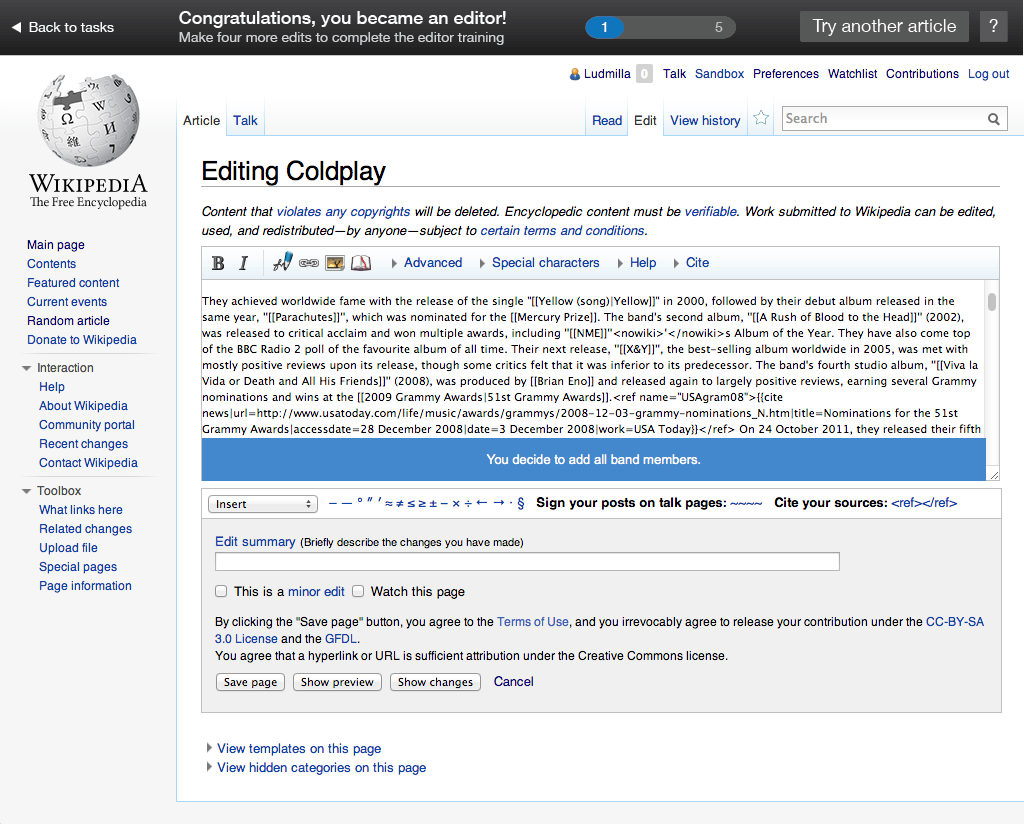
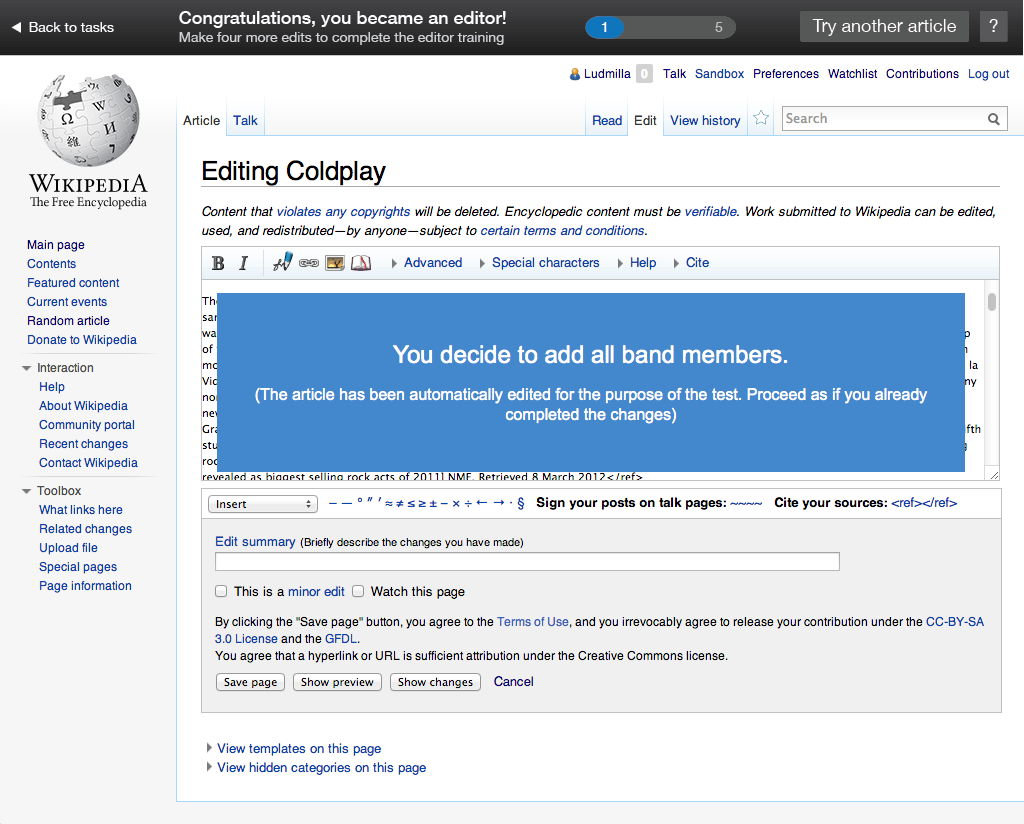
Clarifications added for blue version after pilot test.

Changed region(s): [[0.1875, 0.3337, 0.9688, 0.6068]]

diff --git a/getting-started/blue-bar/index.html b/getting-started/blue-bar/index.html
@@ -1,3 +1,3 @@
 <html xmlns="http://www.w3.org/1999/xhtml"><head><meta http-equiv="Content-Type" content="text/html; charset=UTF-8" /><meta name="viewport" content="width=device-width, initial-scale=1" /><title>progress.ep</title><script type="text/javascript" src="Resources/Script.js">
                     //
-                </script></head><body><div id="page"><div id="content"><div class="Page" id="started_page"><div class="Image"><img width="1024" height="768" src="pages/started.png" usemap="#map_started" id="started_page_image" /><div class="ImageFooter"> </div><map name="map_started"><area shape="rect" coords="187,462,535,555" href="#step0_page" /><area shape="rect" coords="187,351,535,444" href="#step0_page" /><area shape="rect" coords="186,240,534,333" href="#step0_page" /></map></div></div><div class="Page" id="articlebase_page"><div class="Image"><img width="1024" height="824" src="pages/articlebase.png" usemap="#map_articlebase" id="articlebase_page_image" /><div class="ImageFooter"> </div></div></div><div class="Page" id="step0_page"><div class="Image"><img width="1024" height="824" src="pages/step0.png" usemap="#map_step0" id="step0_page_image" /><div class="ImageFooter"> </div><map name="map_step0"><area shape="rect" coords="830,-3,1024,52" href="#anotherstep0_page" /><area shape="rect" coords="606,100,643,144" href="#edit0help_page" /><area shape="rect" coords="670,5,795,49" href="#step0help1_page" /><area shape="rect" coords="1,-3,134,56" href="#started_page" /></map></div></div><div class="Page" id="step0help1_page"><div class="Image"><img width="1024" height="824" src="pages/step0help1.png" usemap="#map_step0help1" id="step0help1_page_image" /><div class="ImageFooter"> </div><map name="map_step0help1"><area shape="rect" coords="677,284,703,319" href="#step0_page" /><area shape="rect" coords="626,374,703,418" href="#step0help2_page" /><area shape="rect" coords="830,-3,1024,52" href="#anotherstep0_page" /><area shape="rect" coords="606,100,643,144" href="#edit0help_page" /><area shape="rect" coords="670,5,795,49" href="#step0help1_page" /><area shape="rect" coords="1,-3,134,56" href="#started_page" /></map></div></div><div class="Page" id="step0help2_page"><div class="Image"><img width="1024" height="824" src="pages/step0help2.png" usemap="#map_step0help2" id="step0help2_page_image" /><div class="ImageFooter"> </div><map name="map_step0help2"><area shape="rect" coords="754,151,785,184" href="#step0_page" /><area shape="rect" coords="704,224,781,268" href="#step0_page" /><area shape="rect" coords="830,-3,1024,52" href="#anotherstep0_page" /><area shape="rect" coords="606,100,643,144" href="#edit0help_page" /><area shape="rect" coords="670,5,795,49" href="#step0help1_page" /><area shape="rect" coords="1,-3,134,56" href="#started_page" /></map></div></div><div class="Page" id="editbase_page"><div class="Image"><img width="1024" height="824" src="pages/editbase.png" usemap="#map_editbase" id="editbase_page_image" /><div class="ImageFooter"> </div></div></div><div class="Page" id="edit0_page"><div class="Image"><img width="1024" height="824" src="pages/edit0.png" usemap="#map_edit0" id="edit0_page_image" /><div class="ImageFooter"> </div><map name="map_edit0"><area shape="rect" coords="200,246,1001,532" href="#edit0corrected_page" /><area shape="rect" coords="212,710,289,754" href="#step1_page" /></map></div></div><div class="Page" id="edit0help_page"><div class="Image"><img width="1024" height="824" src="pages/edit0help.png" usemap="#map_edit0help" id="edit0help_page_image" /><div class="ImageFooter"> </div><map name="map_edit0help"><area shape="rect" coords="431,560,460,591" href="#edit0_page" /><area shape="rect" coords="379,646,456,690" href="#edit0_page" /><area shape="rect" coords="200,246,1001,532" href="#edit0corrected_page" /><area shape="rect" coords="212,710,289,754" href="#step1_page" /></map></div></div><div class="Page" id="edit0corrected_page"><div class="Image"><img width="1024" height="824" src="pages/edit0corrected.png" usemap="#map_edit0corrected" id="edit0corrected_page_image" /><div class="ImageFooter"> </div><map name="map_edit0corrected"><area shape="rect" coords="212,710,289,754" href="#step1_page" /><area shape="rect" coords="200,246,1001,532" href="#edit0corrected_page" /><area shape="rect" coords="212,710,289,754" href="#step1_page" /></map></div></div><div class="Page" id="step1_page"><div class="Image"><img width="1024" height="824" src="pages/step1.png" usemap="#map_step1" id="step1_page_image" /><div class="ImageFooter"> </div><map name="map_step1"><area shape="rect" coords="310,417,347,461" href="#edit1_page" /><area shape="rect" coords="791,-3,981,52" href="#anotherstep1_page" /><area shape="rect" coords="606,101,643,145" href="#edit1_page" /><area shape="rect" coords="1,-3,134,56" href="#started_page" /></map></div></div><div class="Page" id="edit1_page"><div class="Image"><img width="1024" height="824" src="pages/edit1.png" usemap="#map_edit1" id="edit1_page_image" /><div class="ImageFooter"> </div><map name="map_edit1"><area shape="rect" coords="201,278,987,532" href="#edit1corrected_page" /><area shape="rect" coords="212,710,289,754" href="#step2_page" /></map></div></div><div class="Page" id="edit1corrected_page"><div class="Image"><img width="1024" height="824" src="pages/edit1corrected.png" usemap="#map_edit1corrected" id="edit1corrected_page_image" /><div class="ImageFooter"> </div><map name="map_edit1corrected"><area shape="rect" coords="212,710,289,754" href="#step2_page" /><area shape="rect" coords="201,278,987,532" href="#edit1corrected_page" /><area shape="rect" coords="212,710,289,754" href="#step2_page" /></map></div></div><div class="Page" id="step2_page"><div class="Image"><img width="1024" height="824" src="pages/step2.png" usemap="#map_step2" id="step2_page_image" /><div class="ImageFooter"> </div><map name="map_step2"><area shape="rect" coords="310,453,347,497" href="#edit2_page" /><area shape="rect" coords="394,414,431,458" href="#edit2_page" /><area shape="rect" coords="795,-3,980,52" href="#anotherstep2_page" /><area shape="rect" coords="397,415,434,459" href="#edit2_page" /><area shape="rect" coords="606,100,643,144" href="#edit2_page" /><area shape="rect" coords="1,-3,134,56" href="#started_page" /></map></div></div><div class="Page" id="edit2_page"><div class="Image"><img width="1024" height="824" src="pages/edit2.png" usemap="#map_edit2" id="edit2_page_image" /><div class="ImageFooter"> </div><map name="map_edit2"><area shape="rect" coords="201,278,987,532" href="#edit2corrected_page" /><area shape="rect" coords="212,710,289,754" href="#step3_page" /></map></div></div><div class="Page" id="edit2corrected_page"><div class="Image"><img width="1024" height="824" src="pages/edit2corrected.png" usemap="#map_edit2corrected" id="edit2corrected_page_image" /><div class="ImageFooter"> </div><map name="map_edit2corrected"><area shape="rect" coords="212,710,289,754" href="#step3_page" /><area shape="rect" coords="201,278,987,532" href="#edit2corrected_page" /><area shape="rect" coords="212,710,289,754" href="#step3_page" /></map></div></div><div class="Page" id="step3_page"><div class="Image"><img width="1024" height="824" src="pages/step3.png" usemap="#map_step3" id="step3_page_image" /><div class="ImageFooter"> </div><map name="map_step3"><area shape="rect" coords="305,496,342,540" href="#edit3_page" /><area shape="rect" coords="791,-3,981,52" href="#anotherstep3_page" /><area shape="rect" coords="390,410,427,454" href="#edit3_page" /><area shape="rect" coords="606,100,643,144" href="#edit3_page" /><area shape="rect" coords="1,-3,134,56" href="#started_page" /></map></div></div><div class="Page" id="edit3_page"><div class="Image"><img width="1024" height="824" src="pages/edit3.png" usemap="#map_edit3" id="edit3_page_image" /><div class="ImageFooter"> </div><map name="map_edit3"><area shape="rect" coords="201,278,987,532" href="#edit3corrected_page" /><area shape="rect" coords="212,710,289,754" href="#step4_page" /></map></div></div><div class="Page" id="edit3corrected_page"><div class="Image"><img width="1024" height="824" src="pages/edit3corrected.png" usemap="#map_edit3corrected" id="edit3corrected_page_image" /><div class="ImageFooter"> </div><map name="map_edit3corrected"><area shape="rect" coords="212,710,289,754" href="#step4_page" /><area shape="rect" coords="201,278,987,532" href="#edit3corrected_page" /><area shape="rect" coords="212,710,289,754" href="#step4_page" /></map></div></div><div class="Page" id="step4_page"><div class="Image"><img width="1024" height="824" src="pages/step4.png" usemap="#map_step4" id="step4_page_image" /><div class="ImageFooter"> </div><map name="map_step4"><area shape="rect" coords="310,706,347,750" href="#edit4_page" /><area shape="rect" coords="791,-3,981,52" href="#anotherstep4_page" /><area shape="rect" coords="397,418,434,462" href="#edit4_page" /><area shape="rect" coords="607,101,644,145" href="#edit4_page" /><area shape="rect" coords="1,-3,134,56" href="#started_page" /></map></div></div><div class="Page" id="edit4_page"><div class="Image"><img width="1024" height="824" src="pages/edit4.png" usemap="#map_edit4" id="edit4_page_image" /><div class="ImageFooter"> </div><map name="map_edit4"><area shape="rect" coords="201,278,987,532" href="#edit4corrected_page" /><area shape="rect" coords="212,710,289,754" href="#step5_page" /></map></div></div><div class="Page" id="edit4corrected_page"><div class="Image"><img width="1024" height="824" src="pages/edit4corrected.png" usemap="#map_edit4corrected" id="edit4corrected_page_image" /><div class="ImageFooter"> </div><map name="map_edit4corrected"><area shape="rect" coords="212,710,289,754" href="#step5_page" /><area shape="rect" coords="201,278,987,532" href="#edit4corrected_page" /><area shape="rect" coords="212,710,289,754" href="#step5_page" /></map></div></div><div class="Page" id="step5_page"><div class="Image"><img width="1024" height="824" src="pages/step5.png" usemap="#map_step5" id="step5_page_image" /><div class="ImageFooter"> </div><map name="map_step5"><area shape="rect" coords="737,-3,1025,56" href="#started_page" /><area shape="rect" coords="1,-3,134,56" href="#started_page" /></map></div></div><div class="Page" id="anotherbase_page"><div class="Image"><img width="1024" height="824" src="pages/anotherbase.png" usemap="#map_anotherbase" id="anotherbase_page_image" /><div class="ImageFooter"> </div></div></div><div class="Page" id="anotherstep0_page"><div class="Image"><img width="1024" height="824" src="pages/anotherstep0.png" usemap="#map_anotherstep0" id="anotherstep0_page_image" /><div class="ImageFooter"> </div><map name="map_anotherstep0"><area shape="rect" coords="830,5,1009,49" href="#step0_page" /><area shape="rect" coords="629,100,666,144" href="#anotheredit0help_page" /><area shape="rect" coords="670,5,795,49" href="#anotherstep0help1_page" /><area shape="rect" coords="1,-3,134,56" href="#started_page" /></map></div></div><div class="Page" id="anotherstep0help1_page"><div class="Image"><img width="1024" height="824" src="pages/anotherstep0help1.png" usemap="#map_anotherstep0help1" id="anotherstep0help1_page_image" /><div class="ImageFooter"> </div><map name="map_anotherstep0help1"><area shape="rect" coords="677,284,703,319" href="#anotherstep0_page" /><area shape="rect" coords="626,374,703,418" href="#anotherstep0help2_page" /><area shape="rect" coords="830,5,1009,49" href="#step0_page" /><area shape="rect" coords="629,100,666,144" href="#anotheredit0help_page" /><area shape="rect" coords="670,5,795,49" href="#anotherstep0help1_page" /><area shape="rect" coords="1,-3,134,56" href="#started_page" /></map></div></div><div class="Page" id="anotherstep0help2_page"><div class="Image"><img width="1024" height="824" src="pages/anotherstep0help2.png" usemap="#map_anotherstep0help2" id="anotherstep0help2_page_image" /><div class="ImageFooter"> </div><map name="map_anotherstep0help2"><area shape="rect" coords="754,151,785,184" href="#anotherstep0_page" /><area shape="rect" coords="704,224,781,268" href="#anotherstep0_page" /><area shape="rect" coords="830,5,1009,49" href="#step0_page" /><area shape="rect" coords="629,100,666,144" href="#anotheredit0help_page" /><area shape="rect" coords="670,5,795,49" href="#anotherstep0help1_page" /><area shape="rect" coords="1,-3,134,56" href="#started_page" /></map></div></div><div class="Page" id="anothereditbase_page"><div class="Image"><img width="1024" height="824" src="pages/anothereditbase.png" usemap="#map_anothereditbase" id="anothereditbase_page_image" /><div class="ImageFooter"> </div></div></div><div class="Page" id="anotheredit0_page"><div class="Image"><img width="1024" height="824" src="pages/anotheredit0.png" usemap="#map_anotheredit0" id="anotheredit0_page_image" /><div class="ImageFooter"> </div><map name="map_anotheredit0"><area shape="rect" coords="668,5,792,49" href="#anotheredit0help_page" /><area shape="rect" coords="201,279,986,478" href="#anotheredit0corrected_page" /><area shape="rect" coords="830,5,1009,49" href="#step0_page" /><area shape="rect" coords="212,656,289,700" href="#anotherstep1_page" /></map></div></div><div class="Page" id="anotheredit0help_page"><div class="Image"><img width="1024" height="824" src="pages/anotheredit0help.png" usemap="#map_anotheredit0help" id="anotheredit0help_page_image" /><div class="ImageFooter"> </div><map name="map_anotheredit0help"><area shape="rect" coords="433,511,462,542" href="#anotheredit0_page" /><area shape="rect" coords="381,597,458,641" href="#anotheredit0_page" /><area shape="rect" coords="668,5,792,49" href="#anotheredit0help_page" /><area shape="rect" coords="201,279,986,478" href="#anotheredit0corrected_page" /><area shape="rect" coords="830,5,1009,49" href="#step0_page" /><area shape="rect" coords="212,656,289,700" href="#anotherstep1_page" /></map></div></div><div class="Page" id="anotheredit0corrected_page"><div class="Image"><img width="1024" height="824" src="pages/anotheredit0corrected.png" usemap="#map_anotheredit0corrected" id="anotheredit0corrected_page_image" /><div class="ImageFooter"> </div><map name="map_anotheredit0corrected"><area shape="rect" coords="212,710,289,754" href="#step1_page" /><area shape="rect" coords="668,5,792,49" href="#anotheredit0help_page" /><area shape="rect" coords="201,279,986,478" href="#anotheredit0corrected_page" /><area shape="rect" coords="830,5,1009,49" href="#step0_page" /><area shape="rect" coords="212,656,289,700" href="#anotherstep1_page" /></map></div></div><div class="Page" id="anotherstep1_page"><div class="Image"><img width="1024" height="824" src="pages/anotherstep1.png" usemap="#map_anotherstep1" id="anotherstep1_page_image" /><div class="ImageFooter"> </div><map name="map_anotherstep1"><area shape="rect" coords="346,452,383,496" href="#anotheredit1_page" /><area shape="rect" coords="796,5,975,49" href="#step1_page" /><area shape="rect" coords="629,100,666,144" href="#anotheredit1_page" /><area shape="rect" coords="1,-3,134,56" href="#started_page" /></map></div></div><div class="Page" id="anotheredit1_page"><div class="Image"><img width="1024" height="824" src="pages/anotheredit1.png" usemap="#map_anotheredit1" id="anotheredit1_page_image" /><div class="ImageFooter"> </div><map name="map_anotheredit1"><area shape="rect" coords="668,5,792,49" href="#anotheredit0help_page" /><area shape="rect" coords="201,279,986,478" href="#anotheredit1corrected_page" /><area shape="rect" coords="830,5,1009,49" href="#step0_page" /><area shape="rect" coords="212,656,289,700" href="#anotherstep2_page" /></map></div></div><div class="Page" id="anotheredit1corrected_page"><div class="Image"><img width="1024" height="824" src="pages/anotheredit1corrected.png" usemap="#map_anotheredit1corrected" id="anotheredit1corrected_page_image" /><div class="ImageFooter"> </div><map name="map_anotheredit1corrected"><area shape="rect" coords="212,710,289,754" href="#step1_page" /><area shape="rect" coords="668,5,792,49" href="#anotheredit0help_page" /><area shape="rect" coords="201,279,986,478" href="#anotheredit1corrected_page" /><area shape="rect" coords="830,5,1009,49" href="#step0_page" /><area shape="rect" coords="212,656,289,700" href="#anotherstep2_page" /></map></div></div><div class="Page" id="anotherstep2_page"><div class="Image"><img width="1024" height="824" src="pages/anotherstep2.png" usemap="#map_anotherstep2" id="anotherstep2_page_image" /><div class="ImageFooter"> </div><map name="map_anotherstep2"><area shape="rect" coords="348,455,385,499" href="#anotheredit2_page" /><area shape="rect" coords="796,5,975,49" href="#step2_page" /><area shape="rect" coords="629,100,666,144" href="#anotheredit2_page" /><area shape="rect" coords="1,-3,134,56" href="#started_page" /></map></div></div><div class="Page" id="anotheredit2_page"><div class="Image"><img width="1024" height="824" src="pages/anotheredit2.png" usemap="#map_anotheredit2" id="anotheredit2_page_image" /><div class="ImageFooter"> </div><map name="map_anotheredit2"><area shape="rect" coords="668,5,792,49" href="#anotheredit0help_page" /><area shape="rect" coords="201,279,986,478" href="#anotheredit2corrected_page" /><area shape="rect" coords="830,5,1009,49" href="#step0_page" /><area shape="rect" coords="212,656,289,700" href="#anotherstep3_page" /></map></div></div><div class="Page" id="anotheredit2corrected_page"><div class="Image"><img width="1024" height="824" src="pages/anotheredit2corrected.png" usemap="#map_anotheredit2corrected" id="anotheredit2corrected_page_image" /><div class="ImageFooter"> </div><map name="map_anotheredit2corrected"><area shape="rect" coords="212,710,289,754" href="#step1_page" /><area shape="rect" coords="668,5,792,49" href="#anotheredit0help_page" /><area shape="rect" coords="201,279,986,478" href="#anotheredit2corrected_page" /><area shape="rect" coords="830,5,1009,49" href="#step0_page" /><area shape="rect" coords="212,656,289,700" href="#anotherstep3_page" /></map></div></div><div class="Page" id="anotherstep3_page"><div class="Image"><img width="1024" height="824" src="pages/anotherstep3.png" usemap="#map_anotherstep3" id="anotherstep3_page_image" /><div class="ImageFooter"> </div><map name="map_anotherstep3"><area shape="rect" coords="323,601,360,645" href="#anotheredit3_page" /><area shape="rect" coords="345,453,382,497" href="#anotheredit3_page" /><area shape="rect" coords="796,5,975,49" href="#step3_page" /><area shape="rect" coords="629,100,666,144" href="#anotheredit3_page" /><area shape="rect" coords="1,-3,134,56" href="#started_page" /></map></div></div><div class="Page" id="anotheredit3_page"><div class="Image"><img width="1024" height="824" src="pages/anotheredit3.png" usemap="#map_anotheredit3" id="anotheredit3_page_image" /><div class="ImageFooter"> </div><map name="map_anotheredit3"><area shape="rect" coords="668,5,792,49" href="#anotheredit0help_page" /><area shape="rect" coords="201,279,986,478" href="#anotheredit3corrected_page" /><area shape="rect" coords="830,5,1009,49" href="#step0_page" /><area shape="rect" coords="212,656,289,700" href="#anotherstep4_page" /></map></div></div><div class="Page" id="anotheredit3corrected_page"><div class="Image"><img width="1024" height="824" src="pages/anotheredit3corrected.png" usemap="#map_anotheredit3corrected" id="anotheredit3corrected_page_image" /><div class="ImageFooter"> </div><map name="map_anotheredit3corrected"><area shape="rect" coords="212,710,289,754" href="#step1_page" /><area shape="rect" coords="668,5,792,49" href="#anotheredit0help_page" /><area shape="rect" coords="201,279,986,478" href="#anotheredit3corrected_page" /><area shape="rect" coords="830,5,1009,49" href="#step0_page" /><area shape="rect" coords="212,656,289,700" href="#anotherstep4_page" /></map></div></div><div class="Page" id="anotherstep4_page"><div class="Image"><img width="1024" height="824" src="pages/anotherstep4.png" usemap="#map_anotherstep4" id="anotherstep4_page_image" /><div class="ImageFooter"> </div><map name="map_anotherstep4"><area shape="rect" coords="324,600,361,644" href="#anotheredit4_page" /><area shape="rect" coords="346,449,383,493" href="#anotheredit4_page" /><area shape="rect" coords="629,100,666,144" href="#anotheredit4_page" /><area shape="rect" coords="796,5,975,49" href="#step4_page" /><area shape="rect" coords="1,-3,134,56" href="#started_page" /></map></div></div><div class="Page" id="anotheredit4_page"><div class="Image"><img width="1024" height="824" src="pages/anotheredit4.png" usemap="#map_anotheredit4" id="anotheredit4_page_image" /><div class="ImageFooter"> </div><map name="map_anotheredit4"><area shape="rect" coords="668,5,792,49" href="#anotheredit0help_page" /><area shape="rect" coords="201,279,986,478" href="#anotheredit4corrected_page" /><area shape="rect" coords="830,5,1009,49" href="#step0_page" /><area shape="rect" coords="212,656,289,700" href="#anotherstep5_page" /></map></div></div><div class="Page" id="anotheredit4corrected_page"><div class="Image"><img width="1024" height="824" src="pages/anotheredit4corrected.png" usemap="#map_anotheredit4corrected" id="anotheredit4corrected_page_image" /><div class="ImageFooter"> </div><map name="map_anotheredit4corrected"><area shape="rect" coords="212,710,289,754" href="#step1_page" /><area shape="rect" coords="668,5,792,49" href="#anotheredit0help_page" /><area shape="rect" coords="201,279,986,478" href="#anotheredit4corrected_page" /><area shape="rect" coords="830,5,1009,49" href="#step0_page" /><area shape="rect" coords="212,656,289,700" href="#anotherstep5_page" /></map></div></div><div class="Page" id="anotherstep5_page"><div class="Image"><img width="1024" height="824" src="pages/anotherstep5.png" usemap="#map_anotherstep5" id="anotherstep5_page_image" /><div class="ImageFooter"> </div><map name="map_anotherstep5"><area shape="rect" coords="737,-3,1025,56" href="#started_page" /><area shape="rect" coords="1,-3,134,56" href="#started_page" /></map></div></div></div></div></body></html>
+                </script></head><body><div id="page"><div id="content"><div class="Page" id="started_page"><div class="Image"><img width="1024" height="768" src="pages/started.png" usemap="#map_started" id="started_page_image" /><div class="ImageFooter"> </div><map name="map_started"><area shape="rect" coords="187,462,535,555" href="#step0_page" /><area shape="rect" coords="187,351,535,444" href="#step0_page" /><area shape="rect" coords="186,240,534,333" href="#step0_page" /></map></div></div><div class="Page" id="articlebase_page"><div class="Image"><img width="1024" height="824" src="pages/articlebase.png" usemap="#map_articlebase" id="articlebase_page_image" /><div class="ImageFooter"> </div></div></div><div class="Page" id="step0_page"><div class="Image"><img width="1024" height="824" src="pages/step0.png" usemap="#map_step0" id="step0_page_image" /><div class="ImageFooter"> </div><map name="map_step0"><area shape="rect" coords="406,228,485,272" href="#edit0help_page" /><area shape="rect" coords="886,228,949,272" href="#edit0help_page" /><area shape="rect" coords="830,-3,1024,52" href="#anotherstep0_page" /><area shape="rect" coords="606,100,643,144" href="#edit0help_page" /><area shape="rect" coords="670,5,795,49" href="#step0help1_page" /><area shape="rect" coords="1,-3,134,56" href="#started_page" /></map></div></div><div class="Page" id="step0help1_page"><div class="Image"><img width="1024" height="824" src="pages/step0help1.png" usemap="#map_step0help1" id="step0help1_page_image" /><div class="ImageFooter"> </div><map name="map_step0help1"><area shape="rect" coords="677,284,703,319" href="#step0_page" /><area shape="rect" coords="626,374,703,418" href="#step0help2_page" /><area shape="rect" coords="406,228,485,272" href="#edit0help_page" /><area shape="rect" coords="886,228,949,272" href="#edit0help_page" /><area shape="rect" coords="830,-3,1024,52" href="#anotherstep0_page" /><area shape="rect" coords="606,100,643,144" href="#edit0help_page" /><area shape="rect" coords="670,5,795,49" href="#step0help1_page" /><area shape="rect" coords="1,-3,134,56" href="#started_page" /></map></div></div><div class="Page" id="step0help2_page"><div class="Image"><img width="1024" height="824" src="pages/step0help2.png" usemap="#map_step0help2" id="step0help2_page_image" /><div class="ImageFooter"> </div><map name="map_step0help2"><area shape="rect" coords="754,151,785,184" href="#step0_page" /><area shape="rect" coords="704,224,781,268" href="#step0_page" /><area shape="rect" coords="406,228,485,272" href="#edit0help_page" /><area shape="rect" coords="886,228,949,272" href="#edit0help_page" /><area shape="rect" coords="830,-3,1024,52" href="#anotherstep0_page" /><area shape="rect" coords="606,100,643,144" href="#edit0help_page" /><area shape="rect" coords="670,5,795,49" href="#step0help1_page" /><area shape="rect" coords="1,-3,134,56" href="#started_page" /></map></div></div><div class="Page" id="editbase_page"><div class="Image"><img width="1024" height="824" src="pages/editbase.png" usemap="#map_editbase" id="editbase_page_image" /><div class="ImageFooter"> </div></div></div><div class="Page" id="edit0_page"><div class="Image"><img width="1024" height="824" src="pages/edit0.png" usemap="#map_edit0" id="edit0_page_image" /><div class="ImageFooter"> </div><map name="map_edit0"><area shape="rect" coords="562,100,606,144" href="#step0_page" /><area shape="rect" coords="200,246,1001,532" href="#edit0corrected_page" /><area shape="rect" coords="212,710,289,754" href="#step1_page" /></map></div></div><div class="Page" id="edit0help_page"><div class="Image"><img width="1024" height="824" src="pages/edit0help.png" usemap="#map_edit0help" id="edit0help_page_image" /><div class="ImageFooter"> </div><map name="map_edit0help"><area shape="rect" coords="431,560,460,591" href="#edit0_page" /><area shape="rect" coords="379,646,456,690" href="#edit0_page" /><area shape="rect" coords="562,100,606,144" href="#step0_page" /><area shape="rect" coords="200,246,1001,532" href="#edit0corrected_page" /><area shape="rect" coords="212,710,289,754" href="#step1_page" /></map></div></div><div class="Page" id="edit0corrected_page"><div class="Image"><img width="1024" height="824" src="pages/edit0corrected.png" usemap="#map_edit0corrected" id="edit0corrected_page_image" /><div class="ImageFooter"> </div><map name="map_edit0corrected"><area shape="rect" coords="212,710,289,754" href="#step1_page" /><area shape="rect" coords="562,100,606,144" href="#step0_page" /><area shape="rect" coords="200,246,1001,532" href="#edit0corrected_page" /><area shape="rect" coords="212,710,289,754" href="#step1_page" /></map></div></div><div class="Page" id="step1_page"><div class="Image"><img width="1024" height="824" src="pages/step1.png" usemap="#map_step1" id="step1_page_image" /><div class="ImageFooter"> </div><map name="map_step1"><area shape="rect" coords="402,228,486,272" href="#edit1_page" /><area shape="rect" coords="886,229,952,273" href="#edit1_page" /><area shape="rect" coords="310,417,347,461" href="#edit1_page" /><area shape="rect" coords="791,-3,981,52" href="#anotherstep1_page" /><area shape="rect" coords="606,101,643,145" href="#edit1_page" /><area shape="rect" coords="1,-3,134,56" href="#started_page" /></map></div></div><div class="Page" id="edit1_page"><div class="Image"><img width="1024" height="824" src="pages/edit1.png" usemap="#map_edit1" id="edit1_page_image" /><div class="ImageFooter"> </div><map name="map_edit1"><area shape="rect" coords="562,100,606,144" href="#step1_page" /><area shape="rect" coords="201,278,987,532" href="#edit1corrected_page" /><area shape="rect" coords="212,710,289,754" href="#step2_page" /></map></div></div><div class="Page" id="edit1corrected_page"><div class="Image"><img width="1024" height="824" src="pages/edit1corrected.png" usemap="#map_edit1corrected" id="edit1corrected_page_image" /><div class="ImageFooter"> </div><map name="map_edit1corrected"><area shape="rect" coords="212,710,289,754" href="#step2_page" /><area shape="rect" coords="562,100,606,144" href="#step1_page" /><area shape="rect" coords="201,278,987,532" href="#edit1corrected_page" /><area shape="rect" coords="212,710,289,754" href="#step2_page" /></map></div></div><div class="Page" id="step2_page"><div class="Image"><img width="1024" height="824" src="pages/step2.png" usemap="#map_step2" id="step2_page_image" /><div class="ImageFooter"> </div><map name="map_step2"><area shape="rect" coords="402,228,486,272" href="#edit2_page" /><area shape="rect" coords="890,228,952,272" href="#edit2_page" /><area shape="rect" coords="310,453,347,497" href="#edit2_page" /><area shape="rect" coords="394,414,431,458" href="#edit2_page" /><area shape="rect" coords="795,-3,980,52" href="#anotherstep2_page" /><area shape="rect" coords="397,415,434,459" href="#edit2_page" /><area shape="rect" coords="606,100,643,144" href="#edit2_page" /><area shape="rect" coords="1,-3,134,56" href="#started_page" /></map></div></div><div class="Page" id="edit2_page"><div class="Image"><img width="1024" height="824" src="pages/edit2.png" usemap="#map_edit2" id="edit2_page_image" /><div class="ImageFooter"> </div><map name="map_edit2"><area shape="rect" coords="562,100,606,144" href="#step2_page" /><area shape="rect" coords="201,278,987,532" href="#edit2corrected_page" /><area shape="rect" coords="212,710,289,754" href="#step3_page" /></map></div></div><div class="Page" id="edit2corrected_page"><div class="Image"><img width="1024" height="824" src="pages/edit2corrected.png" usemap="#map_edit2corrected" id="edit2corrected_page_image" /><div class="ImageFooter"> </div><map name="map_edit2corrected"><area shape="rect" coords="212,710,289,754" href="#step3_page" /><area shape="rect" coords="562,100,606,144" href="#step2_page" /><area shape="rect" coords="201,278,987,532" href="#edit2corrected_page" /><area shape="rect" coords="212,710,289,754" href="#step3_page" /></map></div></div><div class="Page" id="step3_page"><div class="Image"><img width="1024" height="824" src="pages/step3.png" usemap="#map_step3" id="step3_page_image" /><div class="ImageFooter"> </div><map name="map_step3"><area shape="rect" coords="392,228,489,272" href="#edit3_page" /><area shape="rect" coords="879,228,954,272" href="#edit3_page" /><area shape="rect" coords="305,496,342,540" href="#edit3_page" /><area shape="rect" coords="791,-3,981,52" href="#anotherstep3_page" /><area shape="rect" coords="390,410,427,454" href="#edit3_page" /><area shape="rect" coords="606,100,643,144" href="#edit3_page" /><area shape="rect" coords="1,-3,134,56" href="#started_page" /></map></div></div><div class="Page" id="edit3_page"><div class="Image"><img width="1024" height="824" src="pages/edit3.png" usemap="#map_edit3" id="edit3_page_image" /><div class="ImageFooter"> </div><map name="map_edit3"><area shape="rect" coords="562,100,606,144" href="#step3_page" /><area shape="rect" coords="201,278,987,532" href="#edit3corrected_page" /><area shape="rect" coords="212,710,289,754" href="#step4_page" /></map></div></div><div class="Page" id="edit3corrected_page"><div class="Image"><img width="1024" height="824" src="pages/edit3corrected.png" usemap="#map_edit3corrected" id="edit3corrected_page_image" /><div class="ImageFooter"> </div><map name="map_edit3corrected"><area shape="rect" coords="212,710,289,754" href="#step4_page" /><area shape="rect" coords="562,100,606,144" href="#step3_page" /><area shape="rect" coords="201,278,987,532" href="#edit3corrected_page" /><area shape="rect" coords="212,710,289,754" href="#step4_page" /></map></div></div><div class="Page" id="step4_page"><div class="Image"><img width="1024" height="824" src="pages/step4.png" usemap="#map_step4" id="step4_page_image" /><div class="ImageFooter"> </div><map name="map_step4"><area shape="rect" coords="398,229,493,273" href="#edit4_page" /><area shape="rect" coords="882,229,958,273" href="#edit4_page" /><area shape="rect" coords="310,706,347,750" href="#edit4_page" /><area shape="rect" coords="791,-3,981,52" href="#anotherstep4_page" /><area shape="rect" coords="397,418,434,462" href="#edit4_page" /><area shape="rect" coords="607,101,644,145" href="#edit4_page" /><area shape="rect" coords="1,-3,134,56" href="#started_page" /></map></div></div><div class="Page" id="edit4_page"><div class="Image"><img width="1024" height="824" src="pages/edit4.png" usemap="#map_edit4" id="edit4_page_image" /><div class="ImageFooter"> </div><map name="map_edit4"><area shape="rect" coords="562,100,606,144" href="#step4_page" /><area shape="rect" coords="201,278,987,532" href="#edit4corrected_page" /><area shape="rect" coords="212,710,289,754" href="#step5_page" /></map></div></div><div class="Page" id="edit4corrected_page"><div class="Image"><img width="1024" height="824" src="pages/edit4corrected.png" usemap="#map_edit4corrected" id="edit4corrected_page_image" /><div class="ImageFooter"> </div><map name="map_edit4corrected"><area shape="rect" coords="212,710,289,754" href="#step5_page" /><area shape="rect" coords="562,100,606,144" href="#step4_page" /><area shape="rect" coords="201,278,987,532" href="#edit4corrected_page" /><area shape="rect" coords="212,710,289,754" href="#step5_page" /></map></div></div><div class="Page" id="step5_page"><div class="Image"><img width="1024" height="824" src="pages/step5.png" usemap="#map_step5" id="step5_page_image" /><div class="ImageFooter"> </div><map name="map_step5"><area shape="rect" coords="737,-3,1025,56" href="#started_page" /><area shape="rect" coords="1,-3,134,56" href="#started_page" /></map></div></div><div class="Page" id="anotherbase_page"><div class="Image"><img width="1024" height="824" src="pages/anotherbase.png" usemap="#map_anotherbase" id="anotherbase_page_image" /><div class="ImageFooter"> </div></div></div><div class="Page" id="anotherstep0_page"><div class="Image"><img width="1024" height="824" src="pages/anotherstep0.png" usemap="#map_anotherstep0" id="anotherstep0_page_image" /><div class="ImageFooter"> </div><map name="map_anotherstep0"><area shape="rect" coords="401,228,486,272" href="#anotheredit0help_page" /><area shape="rect" coords="881,228,954,272" href="#anotheredit0help_page" /><area shape="rect" coords="830,5,1009,49" href="#step0_page" /><area shape="rect" coords="629,100,666,144" href="#anotheredit0help_page" /><area shape="rect" coords="670,5,795,49" href="#anotherstep0help1_page" /><area shape="rect" coords="1,-3,134,56" href="#started_page" /></map></div></div><div class="Page" id="anotherstep0help1_page"><div class="Image"><img width="1024" height="824" src="pages/anotherstep0help1.png" usemap="#map_anotherstep0help1" id="anotherstep0help1_page_image" /><div class="ImageFooter"> </div><map name="map_anotherstep0help1"><area shape="rect" coords="677,284,703,319" href="#anotherstep0_page" /><area shape="rect" coords="626,374,703,418" href="#anotherstep0help2_page" /><area shape="rect" coords="401,228,486,272" href="#anotheredit0help_page" /><area shape="rect" coords="881,228,954,272" href="#anotheredit0help_page" /><area shape="rect" coords="830,5,1009,49" href="#step0_page" /><area shape="rect" coords="629,100,666,144" href="#anotheredit0help_page" /><area shape="rect" coords="670,5,795,49" href="#anotherstep0help1_page" /><area shape="rect" coords="1,-3,134,56" href="#started_page" /></map></div></div><div class="Page" id="anotherstep0help2_page"><div class="Image"><img width="1024" height="824" src="pages/anotherstep0help2.png" usemap="#map_anotherstep0help2" id="anotherstep0help2_page_image" /><div class="ImageFooter"> </div><map name="map_anotherstep0help2"><area shape="rect" coords="754,151,785,184" href="#anotherstep0_page" /><area shape="rect" coords="704,224,781,268" href="#anotherstep0_page" /><area shape="rect" coords="401,228,486,272" href="#anotheredit0help_page" /><area shape="rect" coords="881,228,954,272" href="#anotheredit0help_page" /><area shape="rect" coords="830,5,1009,49" href="#step0_page" /><area shape="rect" coords="629,100,666,144" href="#anotheredit0help_page" /><area shape="rect" coords="670,5,795,49" href="#anotherstep0help1_page" /><area shape="rect" coords="1,-3,134,56" href="#started_page" /></map></div></div><div class="Page" id="anothereditbase_page"><div class="Image"><img width="1024" height="824" src="pages/anothereditbase.png" usemap="#map_anothereditbase" id="anothereditbase_page_image" /><div class="ImageFooter"> </div></div></div><div class="Page" id="anotheredit0_page"><div class="Image"><img width="1024" height="824" src="pages/anotheredit0.png" usemap="#map_anotheredit0" id="anotheredit0_page_image" /><div class="ImageFooter"> </div><map name="map_anotheredit0"><area shape="rect" coords="583,100,627,144" href="#anotherstep0_page" /><area shape="rect" coords="668,5,792,49" href="#anotheredit0help_page" /><area shape="rect" coords="201,279,986,478" href="#anotheredit0corrected_page" /><area shape="rect" coords="830,5,1009,49" href="#step0_page" /><area shape="rect" coords="212,656,289,700" href="#anotherstep1_page" /></map></div></div><div class="Page" id="anotheredit0help_page"><div class="Image"><img width="1024" height="824" src="pages/anotheredit0help.png" usemap="#map_anotheredit0help" id="anotheredit0help_page_image" /><div class="ImageFooter"> </div><map name="map_anotheredit0help"><area shape="rect" coords="433,511,462,542" href="#anotheredit0_page" /><area shape="rect" coords="381,597,458,641" href="#anotheredit0_page" /><area shape="rect" coords="583,100,627,144" href="#anotherstep0_page" /><area shape="rect" coords="668,5,792,49" href="#anotheredit0help_page" /><area shape="rect" coords="201,279,986,478" href="#anotheredit0corrected_page" /><area shape="rect" coords="830,5,1009,49" href="#step0_page" /><area shape="rect" coords="212,656,289,700" href="#anotherstep1_page" /></map></div></div><div class="Page" id="anotheredit0corrected_page"><div class="Image"><img width="1024" height="824" src="pages/anotheredit0corrected.png" usemap="#map_anotheredit0corrected" id="anotheredit0corrected_page_image" /><div class="ImageFooter"> </div><map name="map_anotheredit0corrected"><area shape="rect" coords="212,710,289,754" href="#step1_page" /><area shape="rect" coords="583,100,627,144" href="#anotherstep0_page" /><area shape="rect" coords="668,5,792,49" href="#anotheredit0help_page" /><area shape="rect" coords="201,279,986,478" href="#anotheredit0corrected_page" /><area shape="rect" coords="830,5,1009,49" href="#step0_page" /><area shape="rect" coords="212,656,289,700" href="#anotherstep1_page" /></map></div></div><div class="Page" id="anotherstep1_page"><div class="Image"><img width="1024" height="824" src="pages/anotherstep1.png" usemap="#map_anotherstep1" id="anotherstep1_page_image" /><div class="ImageFooter"> </div><map name="map_anotherstep1"><area shape="rect" coords="397,228,487,272" href="#anotheredit1_page" /><area shape="rect" coords="883,228,954,272" href="#anotheredit1_page" /><area shape="rect" coords="346,452,383,496" href="#anotheredit1_page" /><area shape="rect" coords="796,5,975,49" href="#step1_page" /><area shape="rect" coords="629,100,666,144" href="#anotheredit1_page" /><area shape="rect" coords="1,-3,134,56" href="#started_page" /></map></div></div><div class="Page" id="anotheredit1_page"><div class="Image"><img width="1024" height="824" src="pages/anotheredit1.png" usemap="#map_anotheredit1" id="anotheredit1_page_image" /><div class="ImageFooter"> </div><map name="map_anotheredit1"><area shape="rect" coords="583,100,627,144" href="#anotherstep1_page" /><area shape="rect" coords="668,5,792,49" href="#anotheredit0help_page" /><area shape="rect" coords="201,279,986,478" href="#anotheredit1corrected_page" /><area shape="rect" coords="830,5,1009,49" href="#step0_page" /><area shape="rect" coords="212,656,289,700" href="#anotherstep2_page" /></map></div></div><div class="Page" id="anotheredit1corrected_page"><div class="Image"><img width="1024" height="824" src="pages/anotheredit1corrected.png" usemap="#map_anotheredit1corrected" id="anotheredit1corrected_page_image" /><div class="ImageFooter"> </div><map name="map_anotheredit1corrected"><area shape="rect" coords="212,710,289,754" href="#step1_page" /><area shape="rect" coords="583,100,627,144" href="#anotherstep1_page" /><area shape="rect" coords="668,5,792,49" href="#anotheredit0help_page" /><area shape="rect" coords="201,279,986,478" href="#anotheredit1corrected_page" /><area shape="rect" coords="830,5,1009,49" href="#step0_page" /><area shape="rect" coords="212,656,289,700" href="#anotherstep2_page" /></map></div></div><div class="Page" id="anotherstep2_page"><div class="Image"><img width="1024" height="824" src="pages/anotherstep2.png" usemap="#map_anotherstep2" id="anotherstep2_page_image" /><div class="ImageFooter"> </div><map name="map_anotherstep2"><area shape="rect" coords="391,228,495,272" href="#anotheredit2_page" /><area shape="rect" coords="887,228,954,272" href="#anotheredit2_page" /><area shape="rect" coords="348,455,385,499" href="#anotheredit2_page" /><area shape="rect" coords="796,5,975,49" href="#step2_page" /><area shape="rect" coords="629,100,666,144" href="#anotheredit2_page" /><area shape="rect" coords="1,-3,134,56" href="#started_page" /></map></div></div><div class="Page" id="anotheredit2_page"><div class="Image"><img width="1024" height="824" src="pages/anotheredit2.png" usemap="#map_anotheredit2" id="anotheredit2_page_image" /><div class="ImageFooter"> </div><map name="map_anotheredit2"><area shape="rect" coords="583,100,627,144" href="#anotherstep2_page" /><area shape="rect" coords="668,5,792,49" href="#anotheredit0help_page" /><area shape="rect" coords="201,279,986,478" href="#anotheredit2corrected_page" /><area shape="rect" coords="830,5,1009,49" href="#step0_page" /><area shape="rect" coords="212,656,289,700" href="#anotherstep3_page" /></map></div></div><div class="Page" id="anotheredit2corrected_page"><div class="Image"><img width="1024" height="824" src="pages/anotheredit2corrected.png" usemap="#map_anotheredit2corrected" id="anotheredit2corrected_page_image" /><div class="ImageFooter"> </div><map name="map_anotheredit2corrected"><area shape="rect" coords="212,710,289,754" href="#step1_page" /><area shape="rect" coords="583,100,627,144" href="#anotherstep2_page" /><area shape="rect" coords="668,5,792,49" href="#anotheredit0help_page" /><area shape="rect" coords="201,279,986,478" href="#anotheredit2corrected_page" /><area shape="rect" coords="830,5,1009,49" href="#step0_page" /><area shape="rect" coords="212,656,289,700" href="#anotherstep3_page" /></map></div></div><div class="Page" id="anotherstep3_page"><div class="Image"><img width="1024" height="824" src="pages/anotherstep3.png" usemap="#map_anotherstep3" id="anotherstep3_page_image" /><div class="ImageFooter"> </div><map name="map_anotherstep3"><area shape="rect" coords="400,228,482,272" href="#anotheredit3_page" /><area shape="rect" coords="884,228,954,272" href="#anotheredit3_page" /><area shape="rect" coords="323,601,360,645" href="#anotheredit3_page" /><area shape="rect" coords="345,453,382,497" href="#anotheredit3_page" /><area shape="rect" coords="796,5,975,49" href="#step3_page" /><area shape="rect" coords="629,100,666,144" href="#anotheredit3_page" /><area shape="rect" coords="1,-3,134,56" href="#started_page" /></map></div></div><div class="Page" id="anotheredit3_page"><div class="Image"><img width="1024" height="824" src="pages/anotheredit3.png" usemap="#map_anotheredit3" id="anotheredit3_page_image" /><div class="ImageFooter"> </div><map name="map_anotheredit3"><area shape="rect" coords="583,100,627,144" href="#anotherstep3_page" /><area shape="rect" coords="668,5,792,49" href="#anotheredit0help_page" /><area shape="rect" coords="201,279,986,478" href="#anotheredit3corrected_page" /><area shape="rect" coords="830,5,1009,49" href="#step0_page" /><area shape="rect" coords="212,656,289,700" href="#anotherstep4_page" /></map></div></div><div class="Page" id="anotheredit3corrected_page"><div class="Image"><img width="1024" height="824" src="pages/anotheredit3corrected.png" usemap="#map_anotheredit3corrected" id="anotheredit3corrected_page_image" /><div class="ImageFooter"> </div><map name="map_anotheredit3corrected"><area shape="rect" coords="212,710,289,754" href="#step1_page" /><area shape="rect" coords="583,100,627,144" href="#anotherstep3_page" /><area shape="rect" coords="668,5,792,49" href="#anotheredit0help_page" /><area shape="rect" coords="201,279,986,478" href="#anotheredit3corrected_page" /><area shape="rect" coords="830,5,1009,49" href="#step0_page" /><area shape="rect" coords="212,656,289,700" href="#anotherstep4_page" /></map></div></div><div class="Page" id="anotherstep4_page"><div class="Image"><img width="1024" height="824" src="pages/anotherstep4.png" usemap="#map_anotherstep4" id="anotherstep4_page_image" /><div class="ImageFooter"> </div><map name="map_anotherstep4"><area shape="rect" coords="405,225,485,269" href="#anotheredit4_page" /><area shape="rect" coords="885,228,948,272" href="#anotheredit4_page" /><area shape="rect" coords="324,600,361,644" href="#anotheredit4_page" /><area shape="rect" coords="346,449,383,493" href="#anotheredit4_page" /><area shape="rect" coords="629,100,666,144" href="#anotheredit4_page" /><area shape="rect" coords="796,5,975,49" href="#step4_page" /><area shape="rect" coords="1,-3,134,56" href="#started_page" /></map></div></div><div class="Page" id="anotheredit4_page"><div class="Image"><img width="1024" height="824" src="pages/anotheredit4.png" usemap="#map_anotheredit4" id="anotheredit4_page_image" /><div class="ImageFooter"> </div><map name="map_anotheredit4"><area shape="rect" coords="583,100,627,144" href="#anotherstep4_page" /><area shape="rect" coords="668,5,792,49" href="#anotheredit0help_page" /><area shape="rect" coords="201,279,986,478" href="#anotheredit4corrected_page" /><area shape="rect" coords="830,5,1009,49" href="#step0_page" /><area shape="rect" coords="212,656,289,700" href="#anotherstep5_page" /></map></div></div><div class="Page" id="anotheredit4corrected_page"><div class="Image"><img width="1024" height="824" src="pages/anotheredit4corrected.png" usemap="#map_anotheredit4corrected" id="anotheredit4corrected_page_image" /><div class="ImageFooter"> </div><map name="map_anotheredit4corrected"><area shape="rect" coords="212,710,289,754" href="#step1_page" /><area shape="rect" coords="583,100,627,144" href="#anotherstep4_page" /><area shape="rect" coords="668,5,792,49" href="#anotheredit0help_page" /><area shape="rect" coords="201,279,986,478" href="#anotheredit4corrected_page" /><area shape="rect" coords="830,5,1009,49" href="#step0_page" /><area shape="rect" coords="212,656,289,700" href="#anotherstep5_page" /></map></div></div><div class="Page" id="anotherstep5_page"><div class="Image"><img width="1024" height="824" src="pages/anotherstep5.png" usemap="#map_anotherstep5" id="anotherstep5_page_image" /><div class="ImageFooter"> </div><map name="map_anotherstep5"><area shape="rect" coords="737,-3,1025,56" href="#started_page" /><area shape="rect" coords="1,-3,134,56" href="#started_page" /></map></div></div></div></div></body></html>

diff --git a/getting-started/blue-bar/Resources/Style.css b/getting-started/blue-bar/Resources/Style.css
@@ -47,7 +47,7 @@ body {
     margin: auto;
     border: none;
     position: absolute;
-    top: 0;
+    top: 30px;
     right: 0;
     left: 0;
 }
